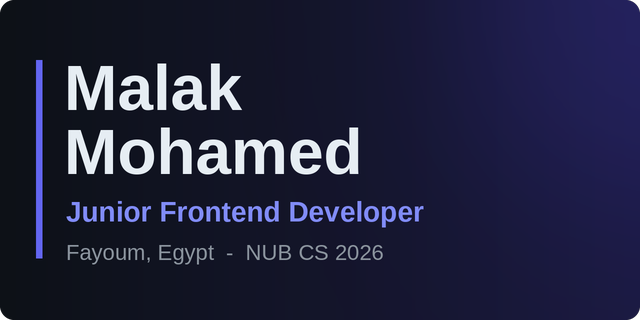
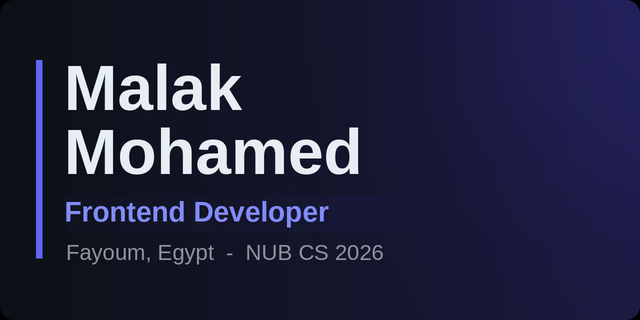
Remove 'junior' from profile and portfolio text and images

diff --git a/README.md b/README.md
@@ -1,10 +1,10 @@
 <p align="center">
-  <img src="assets/banner-m.png" alt="Malak Mohamed, Junior Frontend Developer" width="640" />
+  <img src="assets/banner-m.png" alt="Malak Mohamed, Frontend Developer" width="640" />
 </p>
 
 <p align="center">
-  Junior frontend developer from Fayoum, Egypt. I build responsive, accessible web apps with React and TypeScript.<br/>
-  Looking for my first junior frontend role, remote-friendly.
+  Frontend developer from Fayoum, Egypt. I build responsive, accessible web apps with React and TypeScript.<br/>
+  Looking for my first frontend role, remote-friendly.
 </p>
 
 <p align="center">
